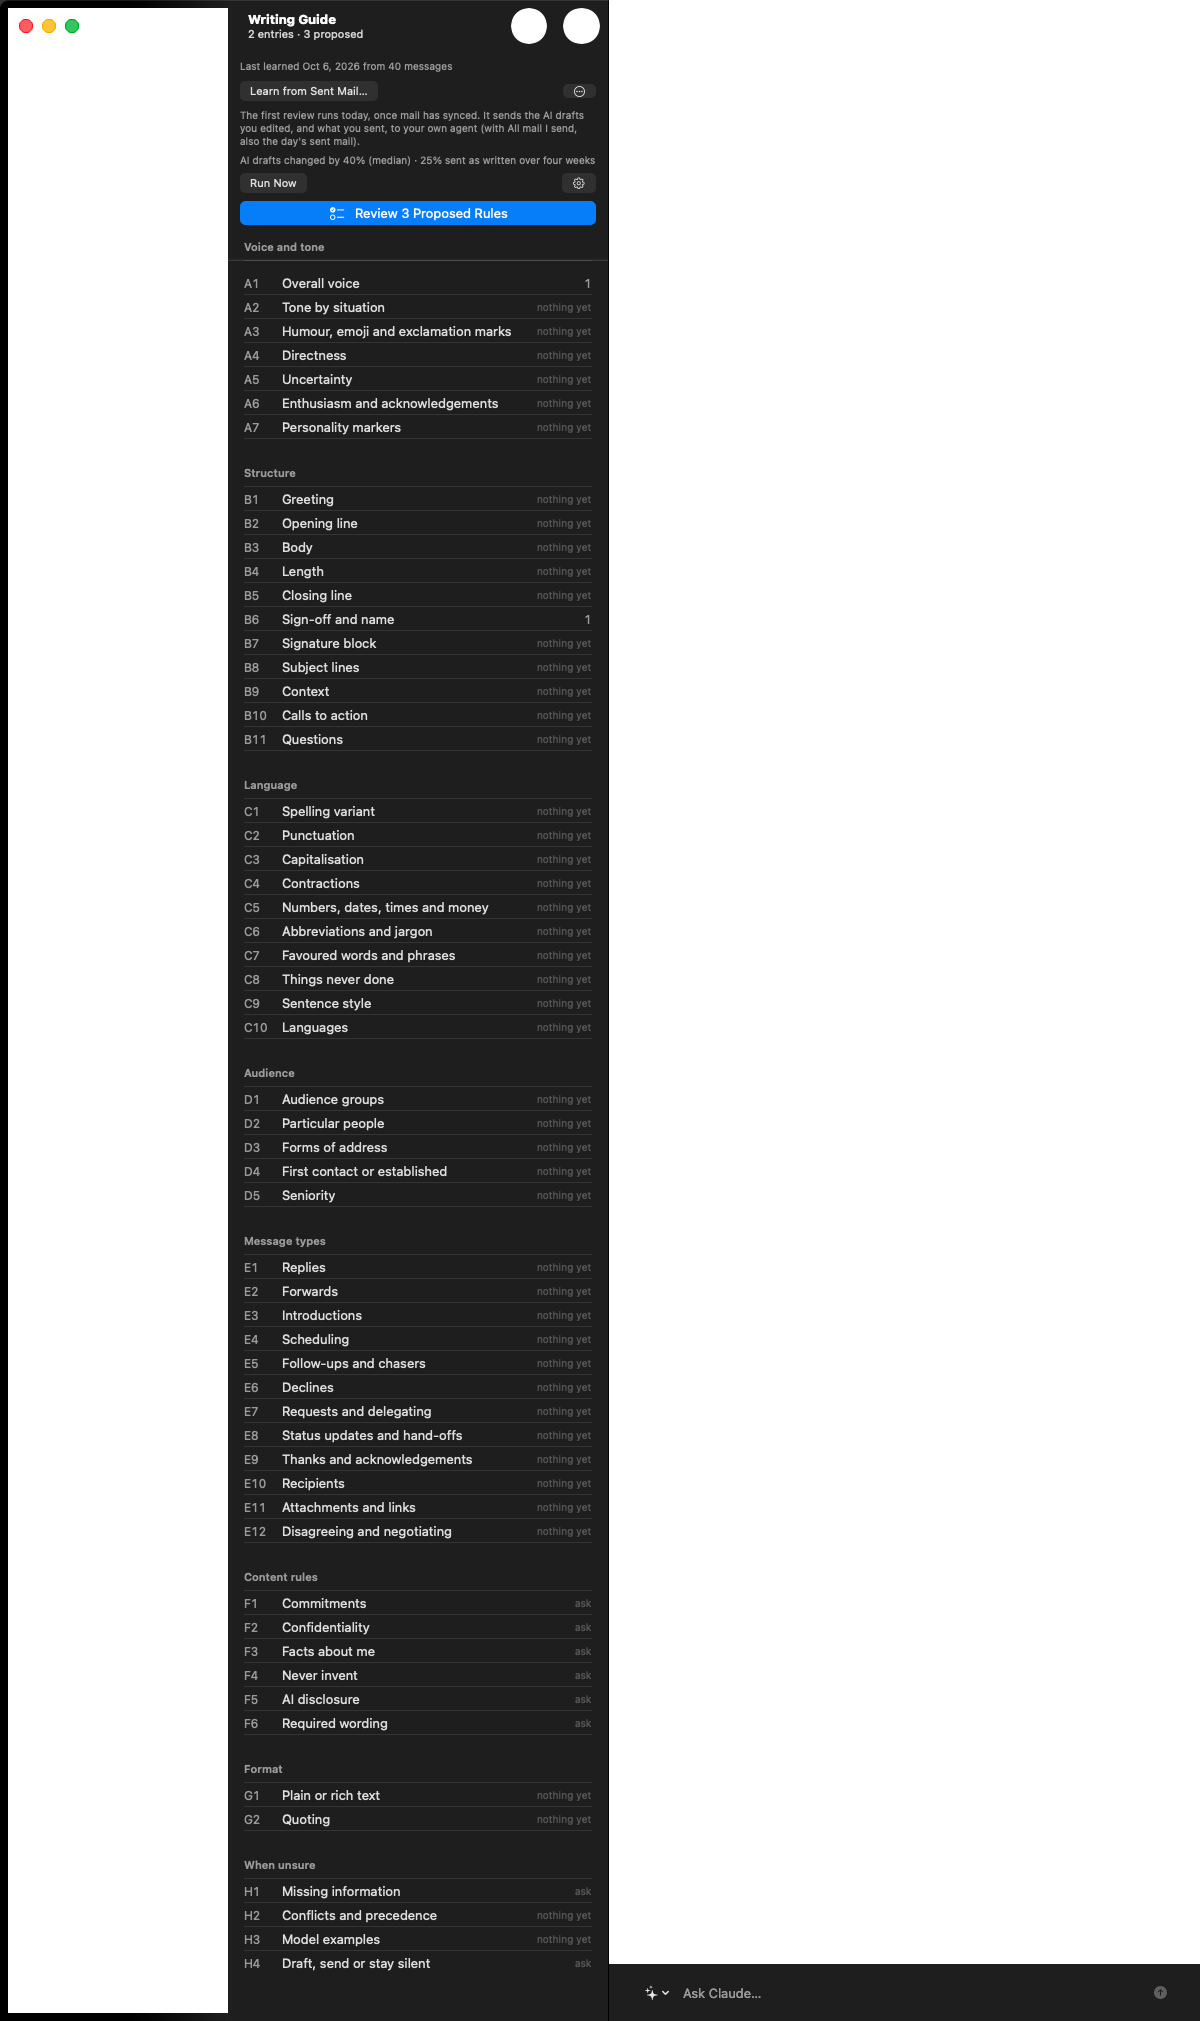
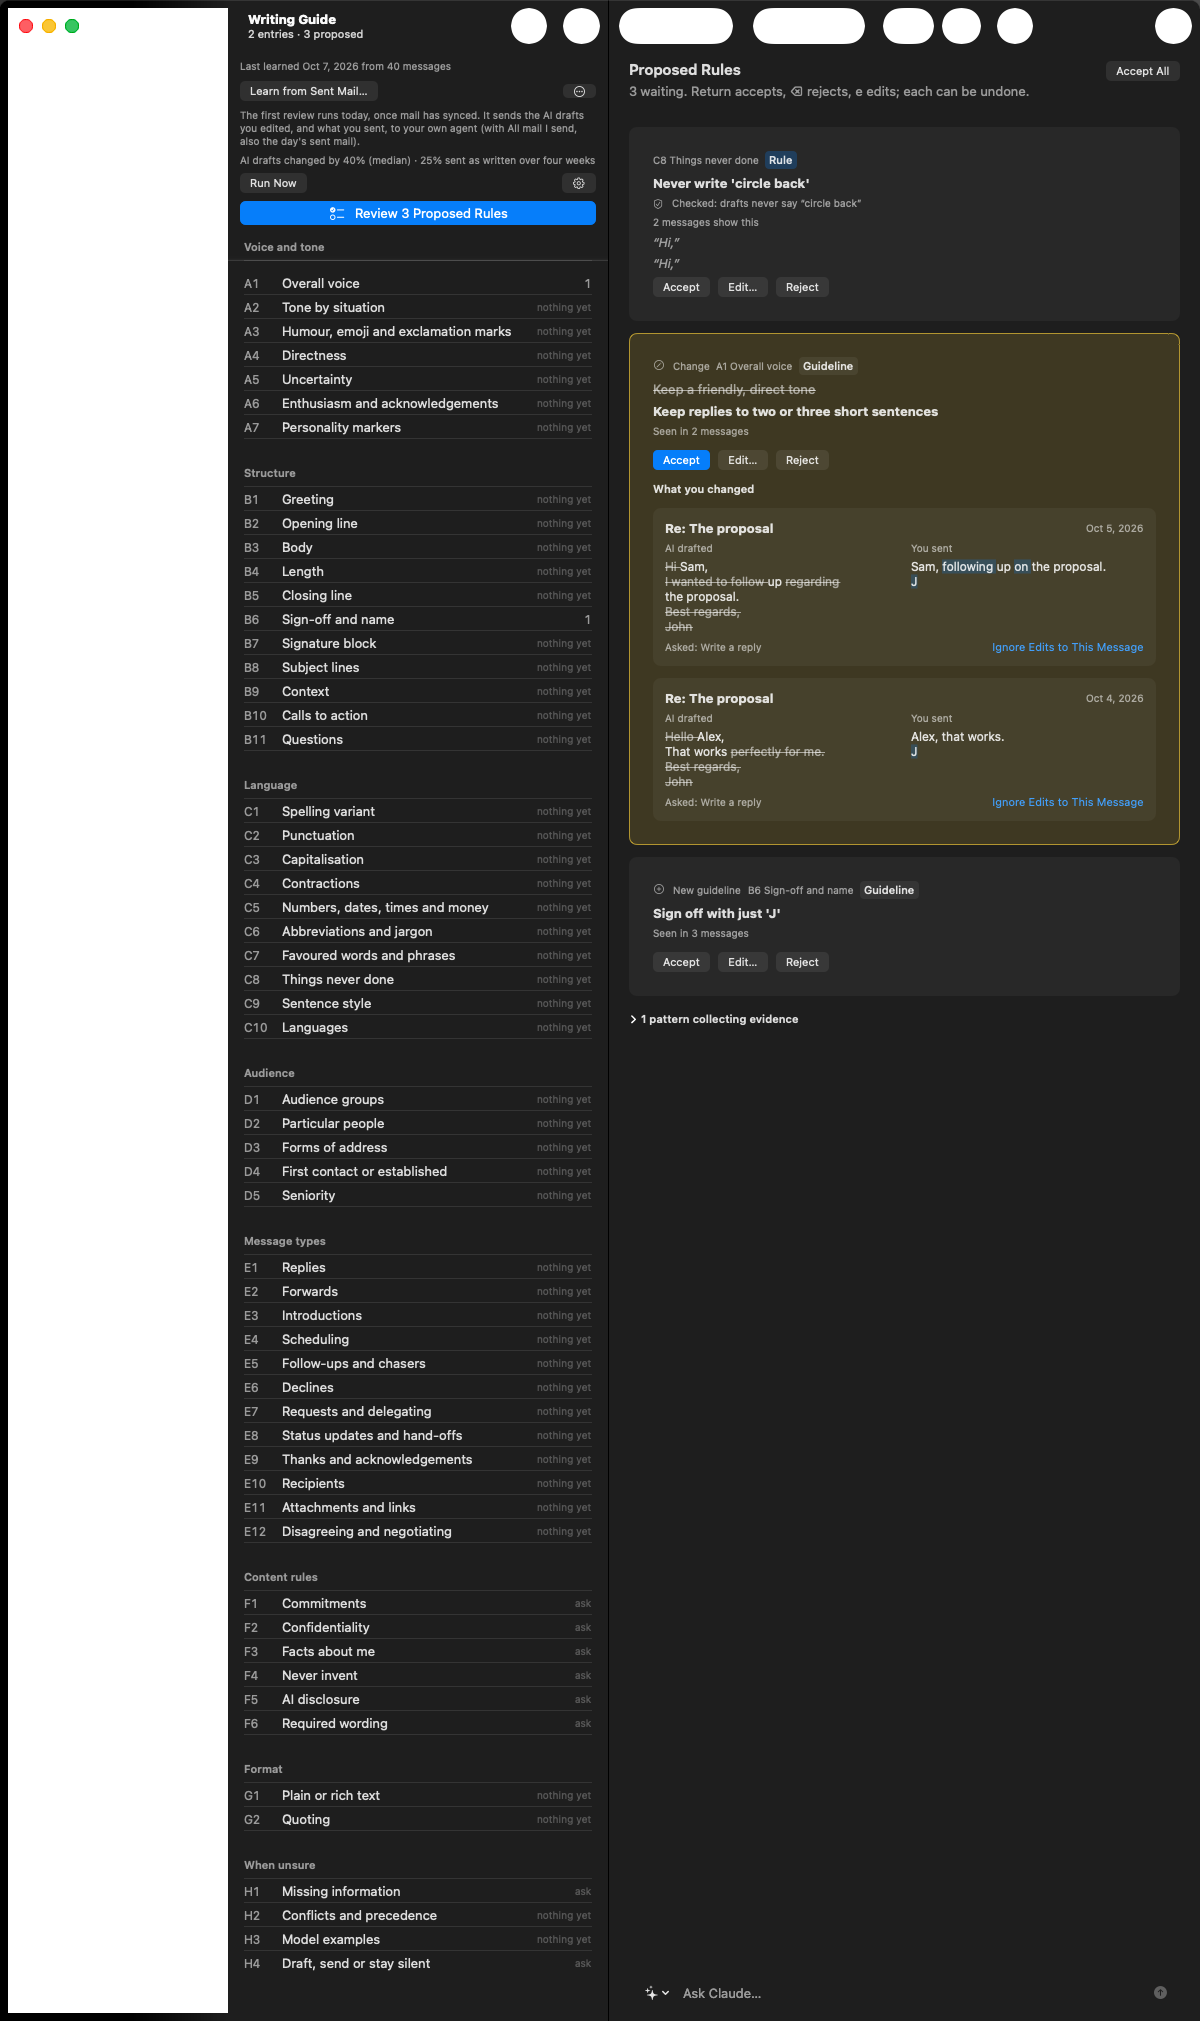
The review headers stay put: Proposed Facts and Proposed Rules are column headers
Both review flows drew their title and Accept All as the first item of
the scrolling content, so after a decision, when the next card scrolled
to the top, the header slid up under the window's toolbar and showed
through it. The header is now a `.columnHeader` (design system rule 4:
any bar at the top of a scrolling column is a safe-area bar), so it
holds its place under the toolbar, the system draws the scroll edge,
and the next card comes to rest just below it. Snapshots refreshed.

diff --git a/macos/OpenAGC/Features/Facts/FactProposals.swift b/macos/OpenAGC/Features/Facts/FactProposals.swift
@@ -97,20 +97,6 @@ struct ProposedFactsView: View {
         ScrollViewReader { scroller in
             ScrollView {
                 VStack(alignment: .leading, spacing: Space.l) {
-                    HStack(alignment: .firstTextBaseline, spacing: Space.m) {
-                        VStack(alignment: .leading, spacing: Space.xs) {
-                            Text("Proposed Facts").font(TypeRole.title)
-                            Text(proposals.isEmpty ? "Nothing waiting"
-                                 : "\(proposals.count) waiting. Return accepts, ⌫ rejects; each can be undone.")
-                                .foregroundStyle(.secondary)
-                        }
-                        Spacer(minLength: Space.m)
-                        if !proposals.isEmpty {
-                            Button("Accept All") { Task { await model.decideProposedFacts(proposals, accept: true) } }
-                                .controlSize(.small)
-                                .hoverHelp("Add every proposed fact; one Undo takes them all back")
-                        }
-                    }
                     ForEach(proposals, id: \.id) { proposal in
                         ProposedFactCard(proposal: proposal, isCurrent: AnalysisStore.tag(proposal) == current)
                             .id(AnalysisStore.tag(proposal))
@@ -126,6 +112,10 @@ struct ProposedFactsView: View {
                 .frame(maxWidth: Self.readingWidth, alignment: .leading)
                 .frame(maxWidth: .infinity, alignment: .leading)
             }
+            // The header stays put (design system: headers are safe-area
+            // bars); the cards scroll under it, and the next card after a
+            // decision comes to rest just below it.
+            .columnHeader { header(proposals) }
             .onChange(of: current) { _, tag in
                 if let tag { withAnimation { scroller.scrollTo(tag, anchor: .top) } }
             }
@@ -146,6 +136,27 @@ struct ProposedFactsView: View {
             model.facts.selection = tags[min(max(at + (press.characters == "j" ? 1 : -1), 0), tags.count - 1)]
             return .handled
         }
+    }
+
+    private func header(_ proposals: [AnalysisFactProposalInfo]) -> some View {
+        HStack(alignment: .firstTextBaseline, spacing: Space.m) {
+            VStack(alignment: .leading, spacing: Space.xs) {
+                Text("Proposed Facts").font(TypeRole.title)
+                Text(proposals.isEmpty ? "Nothing waiting"
+                     : "\(proposals.count) waiting. Return accepts, ⌫ rejects; each can be undone.")
+                    .foregroundStyle(.secondary)
+            }
+            Spacer(minLength: Space.m)
+            if !proposals.isEmpty {
+                Button("Accept All") { Task { await model.decideProposedFacts(proposals, accept: true) } }
+                    .controlSize(.small)
+                    .hoverHelp("Add every proposed fact; one Undo takes them all back")
+            }
+        }
+        .padding(.horizontal, Space.xxl)
+        .padding(.vertical, Space.m)
+        .frame(maxWidth: Self.readingWidth, alignment: .leading)
+        .frame(maxWidth: .infinity, alignment: .leading)
     }
 
     /// The chosen card while it is there; else the first.

diff --git a/macos/OpenAGC/Features/Guide/GuideProposals.swift b/macos/OpenAGC/Features/Guide/GuideProposals.swift
@@ -254,7 +254,6 @@ struct ProposedRulesView: View {
         ScrollViewReader { scroller in
             ScrollView {
                 VStack(alignment: .leading, spacing: Space.l) {
-                    header
                     ForEach(decisions, id: \.id) { entry in
                         GuideDecisionCard(entry: entry, isCurrent: AnalysisStore.tag(entry) == current,
                                           accepted: model.guide.entries.first { $0.id == entry.contradictionOf })
@@ -288,6 +287,9 @@ struct ProposedRulesView: View {
                 .frame(maxWidth: Self.readingWidth, alignment: .leading)
                 .frame(maxWidth: .infinity, alignment: .leading)
             }
+            // The header stays put (design system: headers are safe-area
+            // bars); the cards scroll under it.
+            .columnHeader { header }
             .onChange(of: current) { _, tag in
                 if let tag { withAnimation { scroller.scrollTo(tag, anchor: .top) } }
             }
@@ -336,6 +338,10 @@ struct ProposedRulesView: View {
                     .hoverHelp("Accept every proposed rule that goes against none of yours")
             }
         }
+        .padding(.horizontal, Space.xxl)
+        .padding(.vertical, Space.m)
+        .frame(maxWidth: Self.readingWidth, alignment: .leading)
+        .frame(maxWidth: .infinity, alignment: .leading)
     }
 
     /// Every card in order, the folded ones only while shown.
